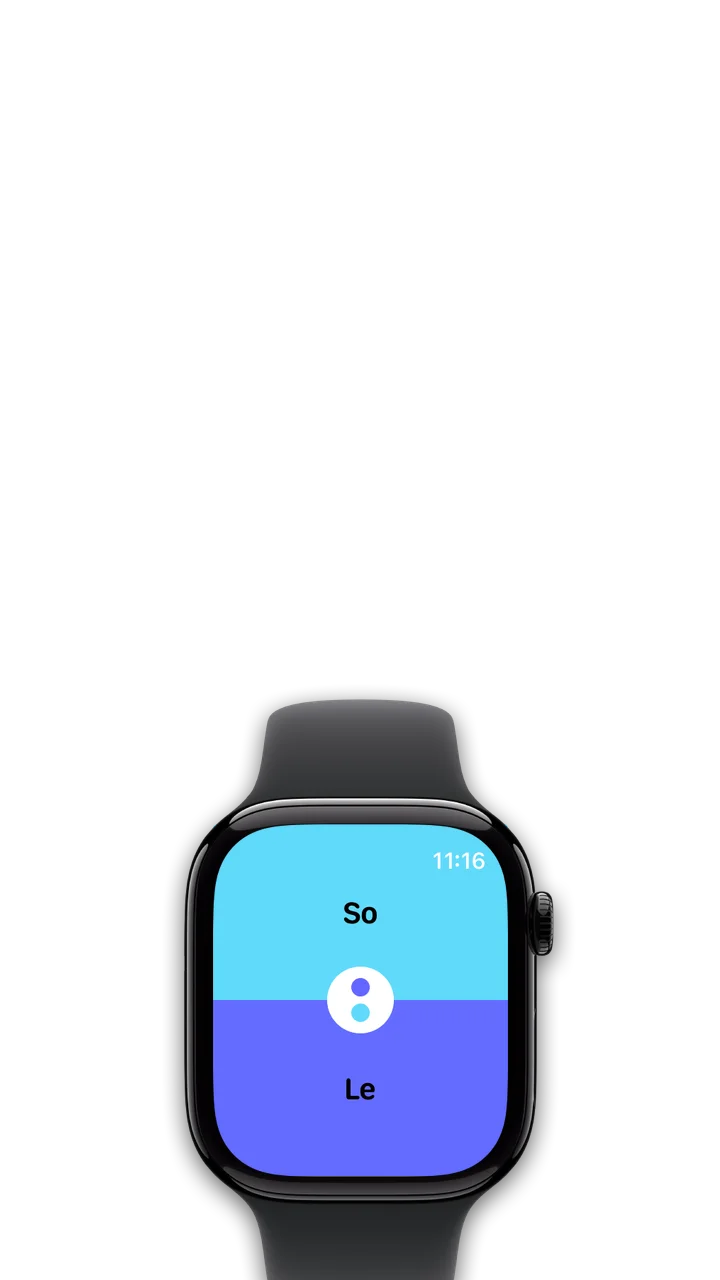
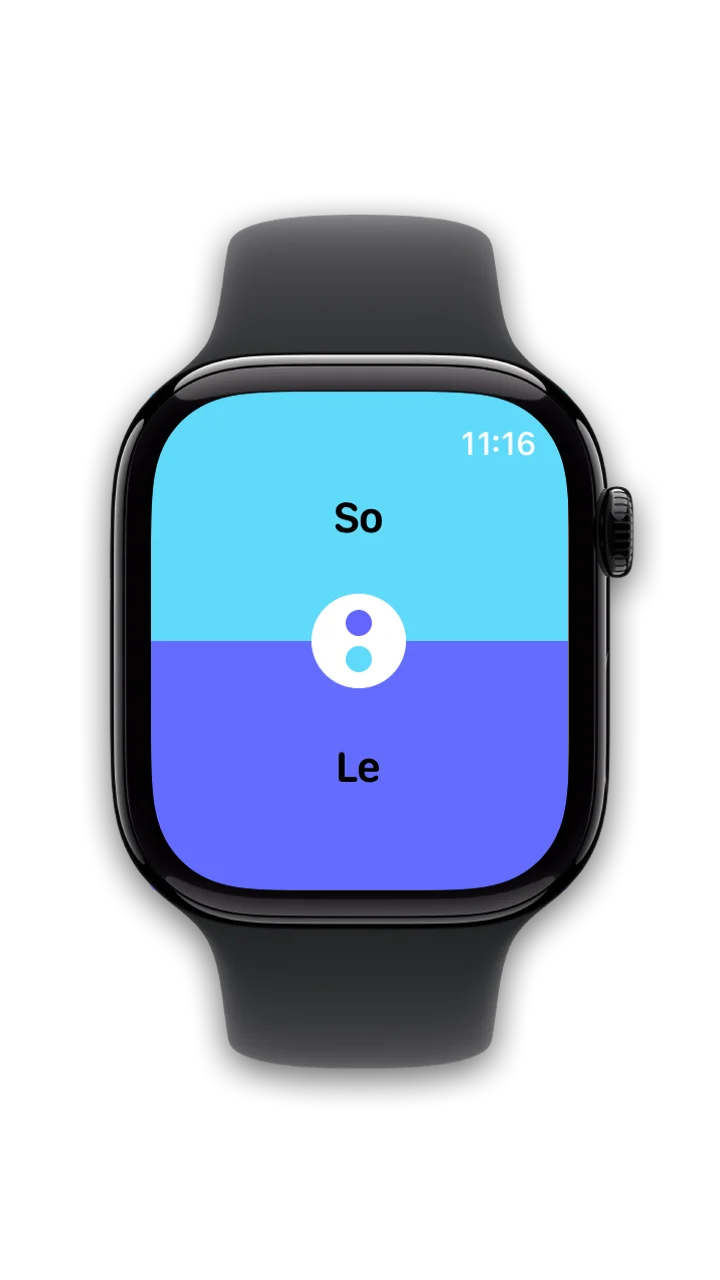
fix(how-it-works): step cards no longer cover the device
From lg on the cards sit left of the device instead of on top of it.
Narrower, the device sits in the upper half above the passing cards,
a card becomes active only in the lower part of the screen, and the
step dots sit right under the device. Applies to every game mode.

The smartwatch steps now say how the watch gets the app and connects,
that the wearer's initials are on top, that a long press pauses and
resumes, and that the unlock happens once in the phone app. Step 2
shows the running scoreboard, with the same players as the watch.

Claude-Session: https://claude.ai/code/session_01QDuw8iEwmNrZTxHekMSu15

diff --git a/src/components/GameModes.tsx b/src/components/GameModes.tsx
@@ -105,7 +105,15 @@ export function GameModes({ lang = 'de' }: { lang?: Locale }) {
         ([entry]) => {
           if (entry.isIntersecting) setActiveStep(i)
         },
-        { rootMargin: '-40% 0px -40% 0px', threshold: 0 }
+        // Side by side (lg) the card is active in the middle band. On a
+        // narrow screen the device sits in the upper half, so a card is
+        // only active once it is in the lower half and never covers it.
+        {
+          rootMargin: window.matchMedia('(min-width: 1024px)').matches
+            ? '-40% 0px -40% 0px'
+            : '-62% 0px -18% 0px',
+          threshold: 0,
+        }
       )
       observer.observe(el)
       observers.push(observer)
@@ -229,15 +237,19 @@ export function GameModes({ lang = 'de' }: { lang?: Locale }) {
         role="tabpanel"
         aria-labelledby={`mode-tab-${activeMode}`}
       >
-        {/* Sticky phone — stays centered behind the text */}
-        <div className="sticky top-0 h-screen flex items-center justify-center pointer-events-none z-0">
+        {/* Sticky device. Side by side from lg on, the device on the
+            right and the cards on the left, so a card never covers the
+            screen it explains. Narrower, the device sits in the upper
+            half and the cards pass below it, and behind it once they
+            are done, so a finished card never covers the device. */}
+        <div className="sticky top-0 h-screen flex items-start pt-32 lg:items-center lg:pt-0 justify-center lg:justify-end lg:pr-[max(3rem,calc((100vw-72rem)/2+3rem))] pointer-events-none z-20 lg:z-0">
           {/* The phone is drawn in CSS, in layers, because one bordered
               rounded rectangle reads as a rectangle: a metallic bevel
               catching light from the top left, a matte body, a screen
               recessed by an inset ring, one hard-edged glass glint and
               the side buttons. The screenshots inside carry no frame of
               their own. */}
-          <div className="relative w-[300px] sm:w-[350px] md:w-[400px]">
+          <div className="relative w-[200px] sm:w-[240px] lg:w-[360px]">
             {images.map((image, i) =>
               typeof image === 'string' ? null : (
                 <img
@@ -286,28 +298,28 @@ export function GameModes({ lang = 'de' }: { lang?: Locale }) {
               <span className="absolute -left-[2px] top-[29%] h-[6%] w-[3px] rounded bg-[linear-gradient(180deg,#8e8e99,#34343c)]" />
               <span className="absolute -right-[2px] top-[25%] h-[9%] w-[3px] rounded bg-[linear-gradient(180deg,#8e8e99,#34343c)]" />
             </div>
+            {/* Dot indicator, right under the device, where the eye already is */}
+            <div className="absolute -bottom-10 left-1/2 -translate-x-1/2 flex gap-2">
+              {steps.map((_: unknown, i: number) => (
+                <div
+                  key={`${activeMode}-dot-${i}`}
+                  className={`rounded-full transition-all duration-300 ${
+                    i === activeStep
+                      ? `w-8 h-3 ${colors.accent}`
+                      : 'w-3 h-3 bg-zinc-700'
+                  }`}
+                />
+              ))}
+            </div>
             {/* Glow behind phone */}
             <div
               className={`absolute -inset-4 bg-gradient-to-b ${colors.glow} rounded-[4rem] blur-2xl -z-10 transition-all duration-700`}
             />
           </div>
-
-          {/* Dot indicator */}
-          <div className="absolute bottom-8 left-1/2 -translate-x-1/2 flex gap-2">
-            {steps.map((_: unknown, i: number) => (
-              <div
-                key={`${activeMode}-dot-${i}`}
-                className={`rounded-full transition-all duration-300 ${
-                  i === activeStep
-                    ? `w-8 h-3 ${colors.accent}`
-                    : 'w-3 h-3 bg-zinc-700'
-                }`}
-              />
-            ))}
-          </div>
         </div>
 
-        {/* Scrollable text cards — overlay on top of phone */}
+        {/* Scrollable text cards: beside the device from lg on, below
+            it on narrower screens */}
         <div className="relative z-10 -mt-[100vh]">
           <div className="h-[10vh]" />
 
@@ -318,7 +330,7 @@ export function GameModes({ lang = 'de' }: { lang?: Locale }) {
                 ref={(el) => {
                   stepsRef.current[i] = el
                 }}
-                className="min-h-[60vh] flex items-center justify-center px-4"
+                className="min-h-[60vh] flex items-center justify-center lg:justify-start px-4 lg:pl-[max(3rem,calc((100vw-72rem)/2+3rem))]"
               >
                 <div
                   className={`max-w-md w-full p-6 md:p-8 rounded-2xl border backdrop-blur-xl transition-all duration-500 ${

diff --git a/src/i18n/fr.ts b/src/i18n/fr.ts
@@ -471,27 +471,27 @@ export const fr: Translations = {
           {
             title: "Ouvre l'app sur la montre",
             description:
-              "Ouvre Klikkr sur ton Apple Watch ou ta montre Wear OS. Elle attend qu'un match démarre sur le téléphone.",
+              "Sur l'Apple Watch, Klikkr arrive avec l'app iPhone ; sur une montre Wear OS, installe-la depuis le Play Store de la montre. Ouvre-la : elle se connecte toute seule au téléphone et attend un match.",
           },
           {
             title: 'Lance le match sur le téléphone',
             description:
-              'Choisis le sport, attribue les joueurs, lance. La montre affiche aussitôt les couleurs et les initiales des joueurs.',
+              'Choisis le sport, attribue les joueurs, lance. Le tableau de score tourne sur le téléphone, la montre affiche les mêmes joueurs dans leurs couleurs.',
           },
           {
             title: 'Compte au poignet',
             description:
-              "Touche en haut pour ton point, en bas pour celui de l'adversaire. Un double toucher annule le dernier point, un appui long met en pause.",
+              "Tes initiales sont en haut : touche en haut pour ton point, en bas pour celui de l'adversaire. Un double toucher annule le dernier point, un appui long met en pause et relance.",
           },
           {
             title: 'Résultat',
             description:
-              "Après la balle de match, le résultat s'affiche sur le téléphone et rejoint tes statistiques. Trois matchs avec la montre sont gratuits, ensuite CHF 10 une seule fois.",
+              "Après la balle de match, le résultat s'affiche sur le téléphone et rejoint tes statistiques. Trois matchs avec la montre sont gratuits, ensuite tu la débloques une seule fois pour CHF 10 dans l'app Klikkr du téléphone.",
           },
         ],
         images: [
           { src: '/app/fr/screens/watch_idle.webp', bare: true as const },
-          '/app/fr/screens/setup.webp',
+          '/app/fr/screens/scoreboard.webp',
           { src: '/app/fr/screens/watch_match.webp', bare: true as const },
           '/app/fr/screens/summary.webp',
         ],

diff --git a/src/i18n/it.ts b/src/i18n/it.ts
@@ -473,27 +473,27 @@ export const it: Translations = {
           {
             title: "Apri l'app sull'orologio",
             description:
-              "Apri Klikkr sul tuo Apple Watch o sull'orologio Wear OS. Aspetta che sul telefono parta una partita.",
+              "Sull'Apple Watch Klikkr arriva con l'app per iPhone; su un orologio Wear OS la installi dal Play Store dell'orologio. Aprila: si collega da sola al telefono e aspetta una partita.",
           },
           {
             title: 'Avvia la partita sul telefono',
             description:
-              "Scegli lo sport, assegna i giocatori, avvia. L'orologio mostra subito i colori e le iniziali dei giocatori.",
+              "Scegli lo sport, assegna i giocatori, avvia. Sul telefono gira il tabellone, l'orologio mostra gli stessi giocatori nei loro colori.",
           },
           {
             title: 'Conta dal polso',
             description:
-              "Tocca in alto per il tuo punto, in basso per quello dell'avversario. Un doppio tocco annulla l'ultimo punto, una pressione lunga mette in pausa.",
+              "In alto ci sono le tue iniziali: tocca in alto per il tuo punto, in basso per quello dell'avversario. Un doppio tocco annulla l'ultimo punto, una pressione lunga mette in pausa e riprende.",
           },
           {
             title: 'Risultato',
             description:
-              "Dopo il match point il risultato è sul telefono e finisce nelle statistiche. Tre partite con l'orologio sono gratis, poi CHF 10 una sola volta.",
+              "Dopo il match point il risultato è sul telefono e finisce nelle statistiche. Tre partite con l'orologio sono gratis, poi lo sblocchi una sola volta per CHF 10 nell'app Klikkr sul telefono.",
           },
         ],
         images: [
           { src: '/app/it/screens/watch_idle.webp', bare: true as const },
-          '/app/it/screens/setup.webp',
+          '/app/it/screens/scoreboard.webp',
           { src: '/app/it/screens/watch_match.webp', bare: true as const },
           '/app/it/screens/summary.webp',
         ],

diff --git a/src/i18n/de.ts b/src/i18n/de.ts
@@ -466,27 +466,27 @@ export const de: Translations = {
           {
             title: 'App auf der Uhr öffnen',
             description:
-              'Öffne Klikkr auf deiner Apple Watch oder Wear-OS-Uhr. Sie wartet, bis auf dem Handy ein Match startet.',
+              'Auf die Apple Watch kommt Klikkr mit der iPhone-App, auf eine Wear-OS-Uhr aus dem Play Store der Uhr. Öffne die App: Sie verbindet sich von selbst mit dem Handy und wartet auf ein Match.',
           },
           {
             title: 'Match am Handy starten',
             description:
-              'Sportart wählen, Spieler zuweisen, starten. Die Uhr zeigt sofort die Farben und Initialen der Spieler.',
+              'Sportart wählen, Spieler zuweisen, starten. Auf dem Handy läuft das Scoreboard, die Uhr zeigt dieselben Spieler in ihren Farben.',
           },
           {
             title: 'Am Handgelenk zählen',
             description:
-              'Tipp oben ist dein Punkt, Tipp unten der Punkt für den Gegner. Ein Doppeltipp nimmt den letzten Punkt zurück, langes Drücken pausiert.',
+              'Oben stehen deine Initialen: Tipp oben zählt deinen Punkt, Tipp unten den des Gegners. Ein Doppeltipp nimmt den letzten Punkt zurück, langes Drücken pausiert und setzt fort.',
           },
           {
             title: 'Ergebnis',
             description:
-              'Nach dem Matchball steht das Ergebnis auf dem Handy und landet in der Statistik. Drei Matches mit der Uhr sind gratis, danach einmalig CHF 10.',
+              'Nach dem Matchball steht das Ergebnis auf dem Handy und landet in der Statistik. Drei Matches mit der Uhr sind gratis, danach schaltest du sie in der Klikkr-App auf dem Handy einmalig für CHF 10 frei.',
           },
         ],
         images: [
           { src: '/app/de/screens/watch_idle.webp', bare: true as const },
-          '/app/de/screens/setup.webp',
+          '/app/de/screens/scoreboard.webp',
           { src: '/app/de/screens/watch_match.webp', bare: true as const },
           '/app/de/screens/summary.webp',
         ],

diff --git a/src/i18n/en.ts b/src/i18n/en.ts
@@ -465,27 +465,27 @@ export const en: Translations = {
           {
             title: 'Open the app on your watch',
             description:
-              'Open Klikkr on your Apple Watch or Wear OS watch. It waits until a match starts on your phone.',
+              "On an Apple Watch, Klikkr comes with the iPhone app; on a Wear OS watch, get it from the watch's Play Store. Open it: it connects to your phone on its own and waits for a match.",
           },
           {
             title: 'Start the match on your phone',
             description:
-              "Pick the sport, assign the players, start. The watch shows the players' colours and initials right away.",
+              'Pick the sport, assign the players, start. The scoreboard runs on your phone, and the watch shows the same players in their colours.',
           },
           {
             title: 'Score from your wrist',
             description:
-              "Tap the top for your point, the bottom for your opponent's. A double tap takes back the last point, a long press pauses.",
+              "Your initials are at the top: tap the top for your point, the bottom for your opponent's. A double tap takes back the last point, a long press pauses and resumes.",
           },
           {
             title: 'Result',
             description:
-              'After match point the result is on your phone and in your statistics. Three matches with the watch are free, then a one-time CHF 10.',
+              'After match point the result is on your phone and in your statistics. Three matches with the watch are free, then unlock it once for CHF 10 in the Klikkr app on your phone.',
           },
         ],
         images: [
           { src: '/app/en/screens/watch_idle.webp', bare: true as const },
-          '/app/en/screens/setup.webp',
+          '/app/en/screens/scoreboard.webp',
           { src: '/app/en/screens/watch_match.webp', bare: true as const },
           '/app/en/screens/summary.webp',
         ],
